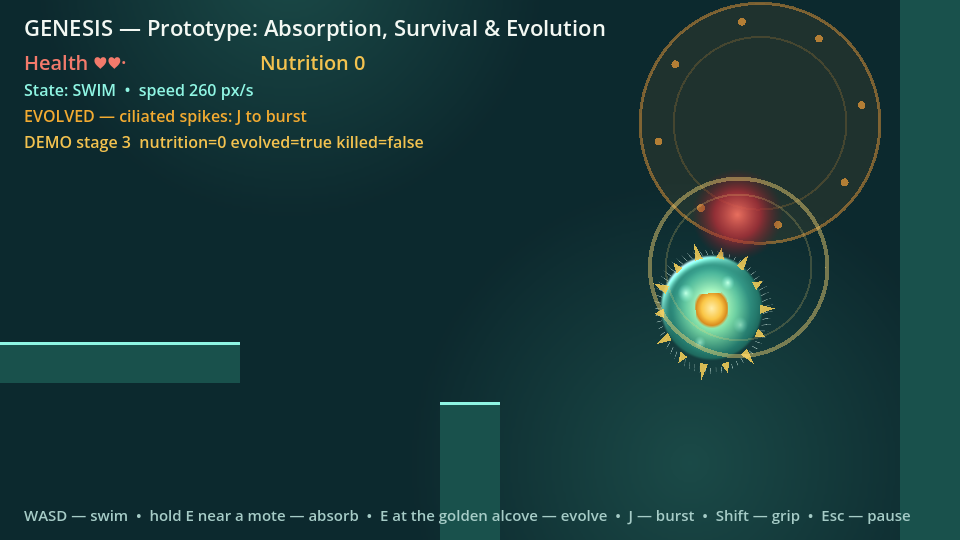
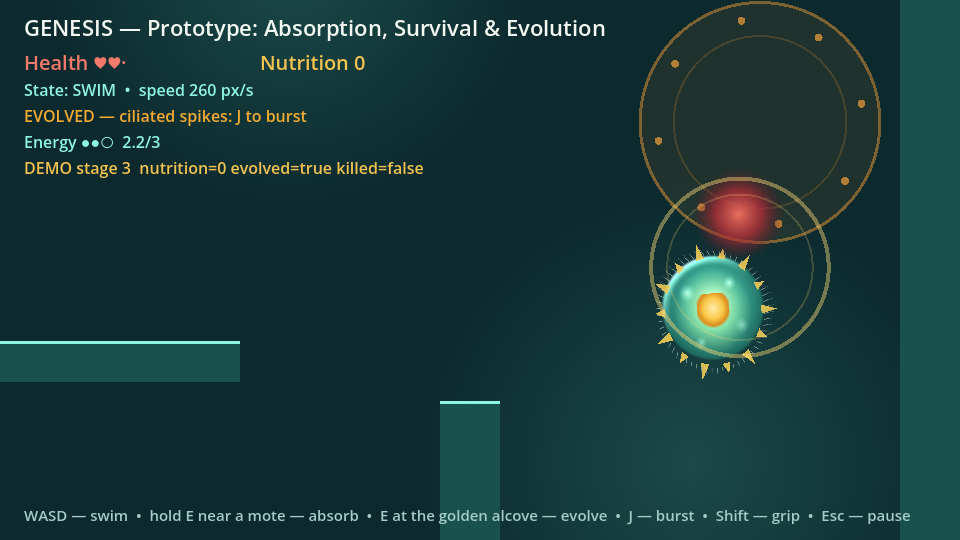
Milestone 4: energy-limited spike burst
Adds a proposed 3-energy pool (1 per burst, 1/s regen) to the evolved burst, rejects unaffordable bursts without side effects, shows energy in the HUD only after evolution, and keeps energy out of the save file. Adds energy_check.gd (7 cases) to the verification runner and records M4 evidence; owner feel check remains open.

diff --git a/docs/MILESTONES.md b/docs/MILESTONES.md
@@ -16,6 +16,7 @@ criteria were observed, not assumed.
 | 1 | Player movement | PASS (2026-11-19) | PASS (owner playtest, 2026-11-19) | **PASS** |
 | 2 | Absorption & survival | PASS (2026-11-19) | PASS (owner playtest, 2026-11-19) | **PASS** |
 | 3 | First evolution | PASS (2026-11-19) | PASS (owner playtest, 2026-11-19) | **PASS** |
+| 4 | Energy for the burst | PASS (2026-11-19) | **Open** — owner feel check | **Automated PASS / human Open** |
 
 ## How the evidence was produced
 
@@ -35,6 +36,7 @@ $godot = "C:\path\to\Godot_v4.7.2-stable_win64_console.exe"
 & $godot --headless --audio-driver Dummy --path game --script res://tests/survival_check.gd
 & $godot --headless --audio-driver Dummy --path game --script res://tests/m2_verdict_check.gd
 & $godot --headless --audio-driver Dummy --path game --script res://tests/evolution_check.gd
+& $godot --headless --audio-driver Dummy --path game --script res://tests/energy_check.gd
 & $godot --headless --audio-driver Dummy --path game --script res://tests/m3_verdict_check.gd
 & $godot --audio-driver Dummy --path game res://scenes/movement_test.tscn -- --m1-demo --outdir="$(Get-Location)/creative/muse/outputs/experiments"
 & $godot --audio-driver Dummy --path game res://scenes/prototype.tscn -- --m2-demo --outdir="$(Get-Location)/creative/muse/outputs/experiments"
@@ -251,4 +253,58 @@ Screenshots are committed under `creative/muse/outputs/experiments/`:
   6. Is the predator a threat you can beat rather than a wall you must kite?
   7. Relaunch after evolving: does a persisted body feel right, or does it need
      a visible "progress saved" cue?
+
+## Milestone 4 — Energy for the burst
+
+- **Objective:** make the evolved burst a repeated decision by giving it a small
+  spend-and-recover pool, without touching movement, absorption or progression.
+- **Automated decision:** **PASS** (2026-11-19).
+- **Human decision:** **Open** — see the playtest checklist below.
+- **Design record:** [`superpowers/specs/2026-11-19-m4-energy-design.md`](superpowers/specs/2026-11-19-m4-energy-design.md)
+  — energy on the existing burst rather than a boss or a second ability, so the
+  spend/recover question is isolated.
+- **Implementation plan:** [`superpowers/plans/2026-11-19-m4-energy.md`](superpowers/plans/2026-11-19-m4-energy.md).
+- **Decision status:** every value below is **Proposed** by the agent; tuning a
+  capacity, cost or regeneration rate is not a design reversal.
+- **Acceptance evidence:**
+  - *Energy pool and HUD*: `PlayerController` exposes `MAX_ENERGY` 3,
+    `BURST_ENERGY_COST` 1, `ENERGY_REGEN_RATE` 1/s and mutable `energy`. The
+    prototype HUD shows `Energy ●●○ 2.2/3` only after evolution — visible in the
+    re-generated `M3_prototype-burst_v01.png` capture; the line is hidden in the
+    pre-evolution `M3_prototype-requirement_v01.png`.
+  - *Exact spend*: one accepted burst subtracts exactly one energy and one
+    predator health; `tests/energy_check.gd` 7/7 covers the full contract.
+  - *No side effects on refusal*: pre-evolution, cooldown-blocked and
+    energy-starved bursts return false, spend no energy and deal no damage.
+  - *Regeneration and cap*: energy recovers with elapsed physics time and never
+    exceeds `MAX_ENERGY`; the check measures ~1 energy per second and the cap.
+  - *Retry/revive*: `revive()` refills energy to maximum; health behavior is
+    unchanged.
+  - *Save behavior*: `save_state.gd` was not modified. Energy is not persisted;
+    the existing M3 evolved/nutrition scene save flow still passes end-to-end.
+  - *Harness can fail*: before implementation the check failed with access
+    errors for the missing `energy`/`MAX_ENERGY` members and exited 1; after
+    implementation it reports `ALL PASS`, and `tools/verify.ps1` includes it.
+    The full runner passed 15/15 checks on 2026-11-19.
+- **Known limitations (not failures):**
+  - Regeneration is continuous, with no delay after an attack. The spec lists
+    the delayed alternative as open.
+  - The HUD shows a fractional value while regenerating; pips use the whole
+    number so the numeric part carries the partial state.
+  - No energy pickups, no second ability, no boss, and still no audio assets.
+- **Risks:**
+  - *The values may make the burst too available or too scarce.* 3 capacity with
+    1/s regeneration lets the M3 demo still defeat the predator, so required
+    progress is intact; whether it is a *good* limit is exactly what the owner
+    playtest decides.
+  - *A visible energy bar can imply a resource economy the game does not have.*
+    It is deliberately hidden before evolution and only limits an optional
+    ability.
+- **Open items — owner playtest checklist:**
+  1. Is the `Energy` line legible after evolution without reading the README?
+  2. Does spending 1 of 3 feel like a cost, or does regeneration erase it?
+  3. Does waiting for energy read as a decision, or as downtime?
+  4. Does the pip/number readout communicate affordability before pressing `J`?
+  5. Should regeneration start immediately (proposed) or after a short delay?
+  6. Does the limit change how you fight the predator in a way you enjoy?
 

diff --git a/game/README.md b/game/README.md
@@ -1,7 +1,8 @@
 # GENESIS — Godot project
 
 Milestone 0 setup + Milestone 1 player movement + Milestone 2 absorption and
-survival + Milestone 3 first evolution. Godot **4.7.2** (stable). The project
+survival + Milestone 3 first evolution + Milestone 4 energy for the burst.
+Godot **4.7.2** (stable). The project
 opens and launches into the Milestone 0 test scene; play the prototype at
 `res://scenes/prototype.tscn`. Milestone decisions and evidence are recorded in
 [`../docs/MILESTONES.md`](../docs/MILESTONES.md).
@@ -93,6 +94,8 @@ godot --headless --audio-driver Dummy --path game \
 godot --headless --audio-driver Dummy --path game \
   --script res://tests/evolution_check.gd
 godot --headless --audio-driver Dummy --path game \
+  --script res://tests/energy_check.gd
+godot --headless --audio-driver Dummy --path game \
   --script res://tests/m3_verdict_check.gd
 ```
 
@@ -114,6 +117,7 @@ $godot = "C:\path\to\Godot_v4.7.2-stable_win64_console.exe"
 & $godot --headless --audio-driver Dummy --path game --script res://tests/survival_check.gd
 & $godot --headless --audio-driver Dummy --path game --script res://tests/m2_verdict_check.gd
 & $godot --headless --audio-driver Dummy --path game --script res://tests/evolution_check.gd
+& $godot --headless --audio-driver Dummy --path game --script res://tests/energy_check.gd
 & $godot --headless --audio-driver Dummy --path game --script res://tests/m3_verdict_check.gd
 
 # Demo autopilot (needs a real window: headless runs cannot capture screenshots).
@@ -181,6 +185,24 @@ Same room geometry as the movement test, plus the first loop that can be lost.
 - Feedback is visual and HUD only — there are no audio assets in the project
   yet, so no sound is implied anywhere.
 
+### Milestone 4 — energy for the spike burst
+
+The evolved burst is now limited by a small energy pool instead of only its
+cooldown. Starting values are **Proposed** (not owner-approved) and meant to be
+tuned in playtest:
+
+- Maximum **3** energy, cost **1** per burst, passive regeneration **1/s**.
+- The HUD shows `Energy ●●○ 2.0/3` only after evolution; the pips dim when a
+  burst is unaffordable.
+- A burst that is unavailable (not evolved, cooling down, or out of energy) is
+  rejected without spending energy or damaging anything.
+- Energy starts full on a fresh run and after retry/revive. It is **not**
+  saved: the existing evolved/nutrition save behavior is unchanged.
+- Energy never gates movement, absorption, evolution or required progress.
+
+Design record: `../docs/superpowers/specs/2026-11-19-m4-energy-design.md`.
+Regression check: `tests/energy_check.gd` (7 cases).
+
 The main scene is `res://scenes/test_scene.tscn`. It shows a scaling
 marker layout and a live input readout. Pressing `Esc`/`P` toggles a
 PAUSED label. In screenshot mode it feeds two real key events (D, E)
@@ -242,6 +264,7 @@ Empty folders carry a `.gitkeep` so the layout survives a fresh clone.
 | `move_down` | S / Down | Left stick down, D-pad down |
 | `interact` | E / Space | South button (A / Cross) |
 | `grip` | Shift | West button (X / Square) |
+| `attack` | J | North button (Y / Triangle) |
 | `pause` | Esc / P | Start |
 
 Game code must use `Input.is_action_pressed("...")` /

diff --git a/docs/superpowers/plans/2026-11-19-m4-energy.md b/docs/superpowers/plans/2026-11-19-m4-energy.md
@@ -41,36 +41,36 @@
 - Consumes: existing `PlayerController.spike_burst()`, `can_attack()`, `revive()`, `EVOLVED` state, prototype HUD update, and `tools/verify.ps1` test runner.
 - Produces: `PlayerController.MAX_ENERGY`, `BURST_ENERGY_COST`, `ENERGY_REGEN_RATE`, mutable `energy`, and `tests/energy_check.gd`.
 
-- [ ] **Step 1: Write the failing energy checks**
+- [x] **Step 1: Write the failing energy checks**
 
   Add cases to `energy_check.gd` that assert a fresh player starts at maximum energy; one successful burst spends exactly 1; an unevolved, cooldown-blocked, or energy-starved burst is rejected without spending or damaging the predator; energy regenerates by elapsed time but remains at or below maximum; and `revive()` restores full energy.
 
-- [ ] **Step 2: Run the new check and confirm the expected failure**
+- [x] **Step 2: Run the new check and confirm the expected failure**
 
   Run: `godot --headless --audio-driver Dummy --path game --script res://tests/energy_check.gd`
 
   Expected: the new energy contract fails because the player has no energy state or energy-gated burst yet. Fix test setup errors before continuing.
 
-- [ ] **Step 3: Implement the minimal player energy loop**
+- [x] **Step 3: Implement the minimal player energy loop**
 
   In `player.gd`, define the three constants from the spec, initialize `energy` to maximum, require at least one energy in `can_attack()`, spend exactly one only after an attack is accepted, regenerate at the proposed rate without exceeding maximum, and refill on revive. Do not write energy in `save_state.gd`.
 
-- [ ] **Step 4: Run the new check and confirm it passes**
+- [x] **Step 4: Run the new check and confirm it passes**
 
   Run: `godot --headless --audio-driver Dummy --path game --script res://tests/energy_check.gd`
 
   Expected: all energy cases pass.
 
-- [ ] **Step 5: Add HUD and verification/documentation coverage**
+- [x] **Step 5: Add HUD and verification/documentation coverage**
 
   Show a compact energy readout in the existing HUD only after evolution. Register `energy_check.gd` in `tools/verify.ps1` and `game/README.md`. Update backlog/milestone records with the exact implementation and verification evidence after it is observed.
 
-- [ ] **Step 6: Run the full project verification**
+- [x] **Step 6: Run the full project verification**
 
   Run: `pwsh -File tools/verify.ps1 -Godot "<Godot 4.7.2 console executable>"`
 
   Expected: every existing and new check exits successfully. If Godot is not available, report that verification was not run rather than claiming the milestone passed.
 
-- [ ] **Step 7: Review the diff**
+- [x] **Step 7: Review the diff**
 
   Confirm the HUD stays hidden before evolution, rejected bursts do not spend energy, energy is not persisted, and no unrelated systems were changed.

diff --git a/docs/BACKLOG.md b/docs/BACKLOG.md
@@ -1,7 +1,7 @@
 # GENESIS — Initial Backlog
 
-**Current phase:** Phase 2 — Evolution & combat prototype (first evolution accepted; remaining scope to be defined)
-**Next implementation target:** Define remaining Phase 2 scope
+**Current phase:** Phase 2 — Evolution & combat prototype (M4 energy loop automated; owner feel check open)
+**Next implementation target:** Owner playtest of the M4 energy loop, then define remaining Phase 2 scope
 **Planning note:** These are ordered work items, not calendar deadlines.  
 **Milestone decisions:** recorded in [`MILESTONES.md`](MILESTONES.md) — a checked box is not a milestone PASS.
 
@@ -85,6 +85,32 @@ check is still open in `MILESTONES.md`.*
   - Evidence: `SaveState` → `user://genesis_save.cfg`; a second scene run loads
     the evolved body (asserted end-to-end); `--fresh-save` clears it.
 
+## Milestone 4 — Energy for the burst
+
+*Automated acceptance met 2026-11-19; the human "does energy add a useful
+decision?" check is open in `MILESTONES.md`. All values are **Proposed**.*
+
+- [x] Add a small energy pool to the evolved burst.
+  - Acceptance: HUD energy is visible after evolution and changes on use and recharge.
+  - Evidence: `MAX_ENERGY` 3, `BURST_ENERGY_COST` 1, `ENERGY_REGEN_RATE` 1/s;
+    HUD `Energy ●●○ 2.2/3` in the M3 burst capture.
+- [x] Reject invalid bursts without side effects.
+  - Acceptance: pre-evolution, cooldown-blocked and energy-starved bursts spend
+    no energy and deal no damage.
+  - Evidence: `tests/energy_check.gd` 7/7 — fresh full, exact spend, pre-evolution
+    refusal, cooldown refusal, starved refusal, capped regeneration, revive refill.
+- [x] Regenerate energy without exceeding the maximum.
+  - Acceptance: energy recovers with elapsed time and never passes its cap.
+  - Evidence: regeneration case asserts ~1 energy per second and a hard cap.
+- [x] Keep energy out of the save file.
+  - Acceptance: reloading preserves evolved/nutrition behavior and does not
+    restore spent energy.
+  - Evidence: `save_state.gd` unchanged; the existing M3 scene save flow and
+    `tests/evolution_check.gd` still pass.
+- [ ] Owner playtest: does managing energy add a useful decision?
+  - Acceptance: the owner can complete a short evolved encounter without
+    instructions and judge the cost/recovery loop.
+
 ## Prototype acceptance gate
 
 The prototype passes when a player can:
@@ -96,6 +122,7 @@ The prototype passes when a player can:
 5. Meet an evolution requirement.
 6. Trigger one evolution.
 7. Use the newly acquired ability.
+8. Manage the ability's energy cost and recovery (M4).
 
 The loop must be understandable and enjoyable enough to justify building a vertical slice.
 

diff --git a/README.md b/README.md
@@ -7,7 +7,7 @@ A solo + AI 2D action Metroidvania about the journey of a new life, from a singl
 ## Project status
 
 **Stage:** Pre-production  
-**Current milestone:** Milestones 0–3 (core prototype through first evolution) passed automated checks and owner playtest on 2026-11-19; next milestone scope is to be defined — see the [Milestone Log](docs/MILESTONES.md).
+**Current milestone:** Milestones 0–3 (core prototype through first evolution) passed automated checks and owner playtest on 2026-11-19. Milestone 4 (energy for the burst) passed automated checks on 2026-11-19 and awaits the owner feel check — see the [Milestone Log](docs/MILESTONES.md).
 **Initial target:** A 4–6 hour PC game, with scope validated through a vertical slice.
 
 ## Documentation
